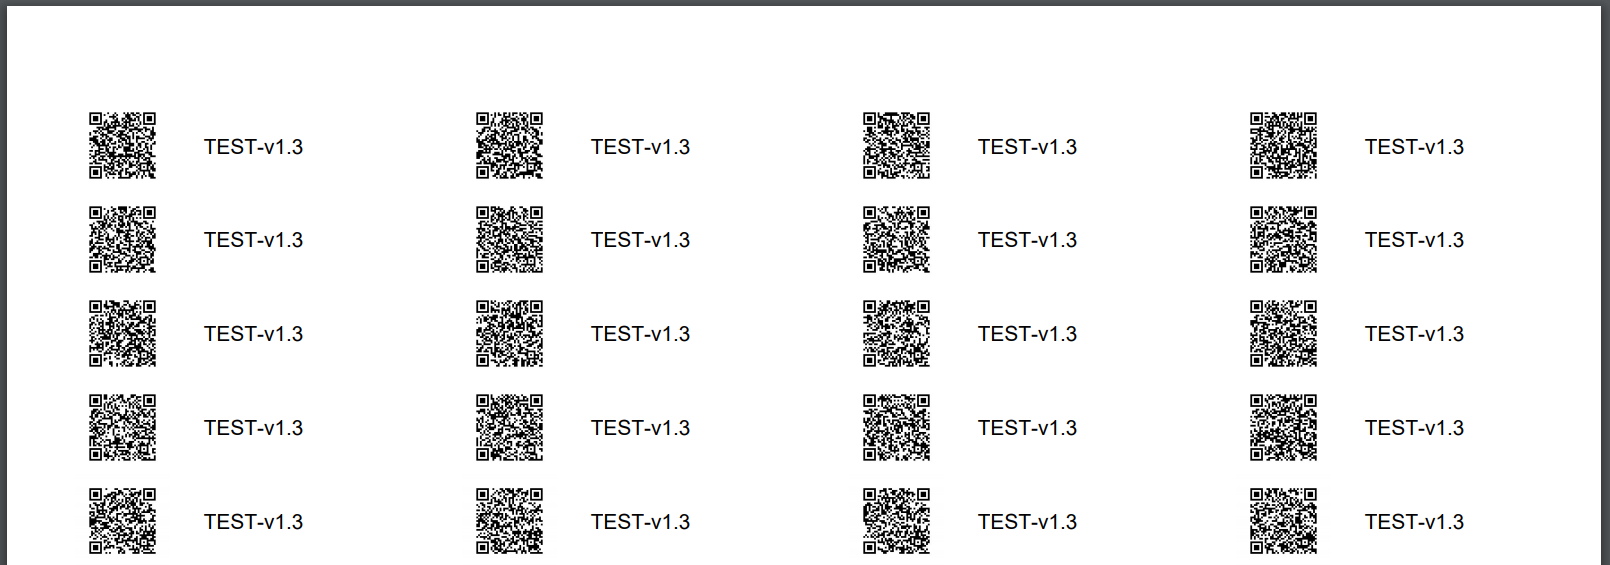
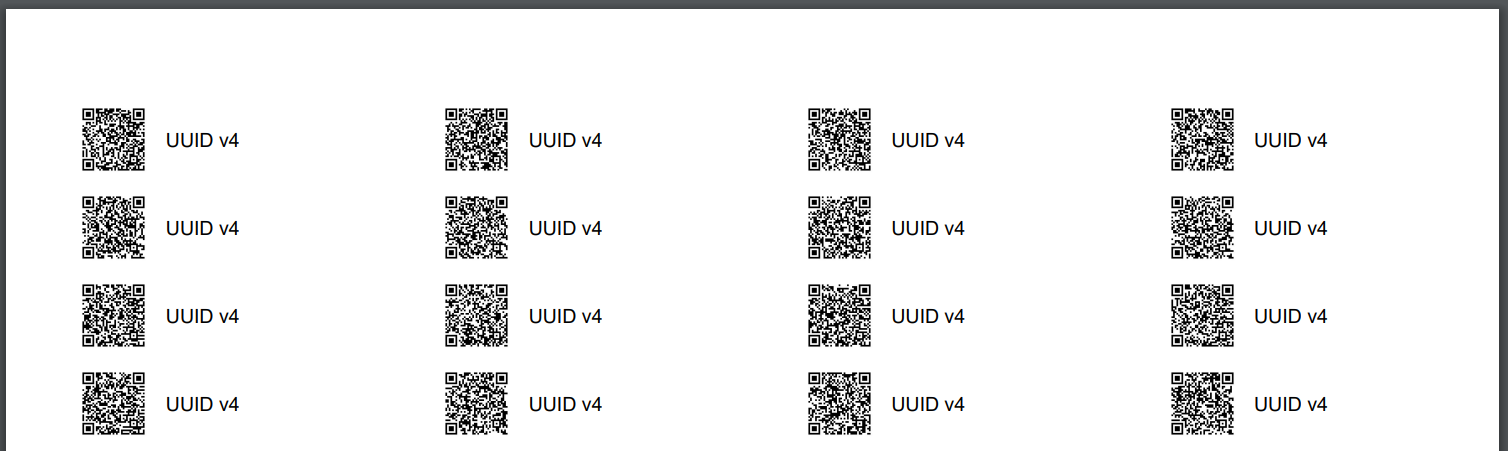
Updated App class and the simple result to better reflect the code.

diff --git a/src/main/java/com/binarskugga/examples/App.java b/src/main/java/com/binarskugga/examples/App.java
@@ -27,7 +27,7 @@ public class App {
 
 		// Generate 800 stickers (fitting on exactly 10 pages) into "simple-generator.pdf".
 		generator.setBatchSize(800);
-		//generator.generate("simple-generator.pdf");
+		generator.generate("simple-generator.pdf");
 
 
 		// This example works with the Avery template #5167
